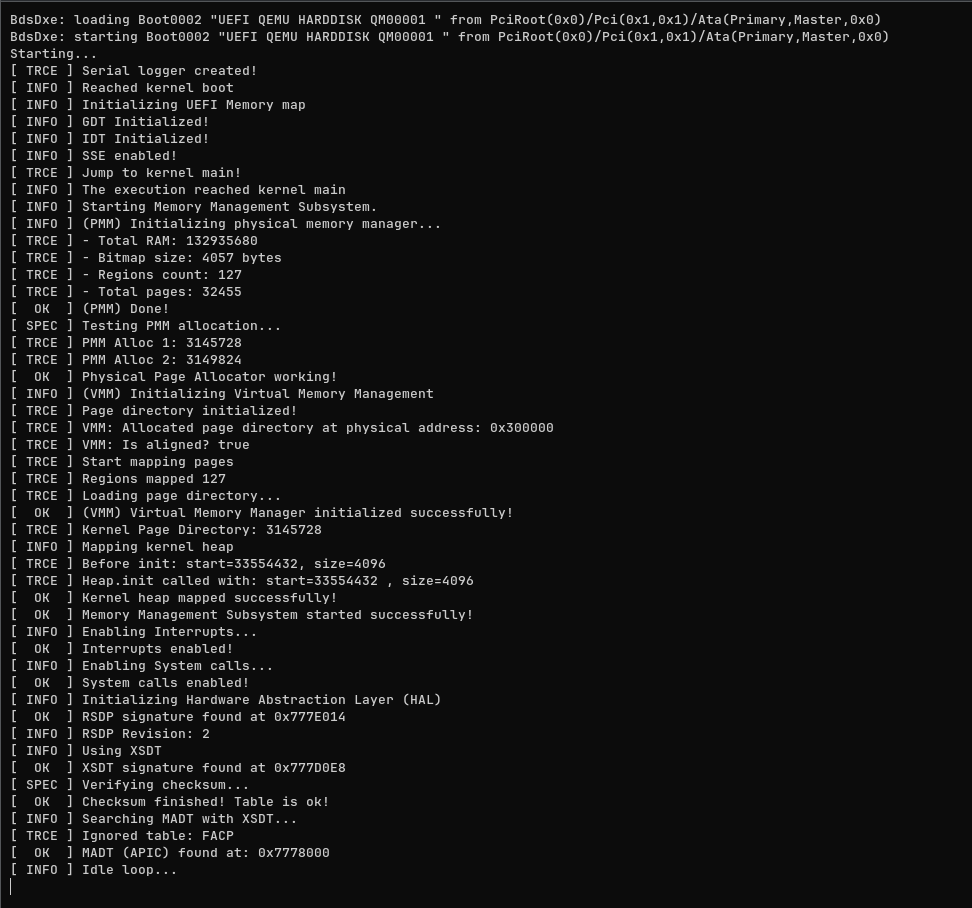
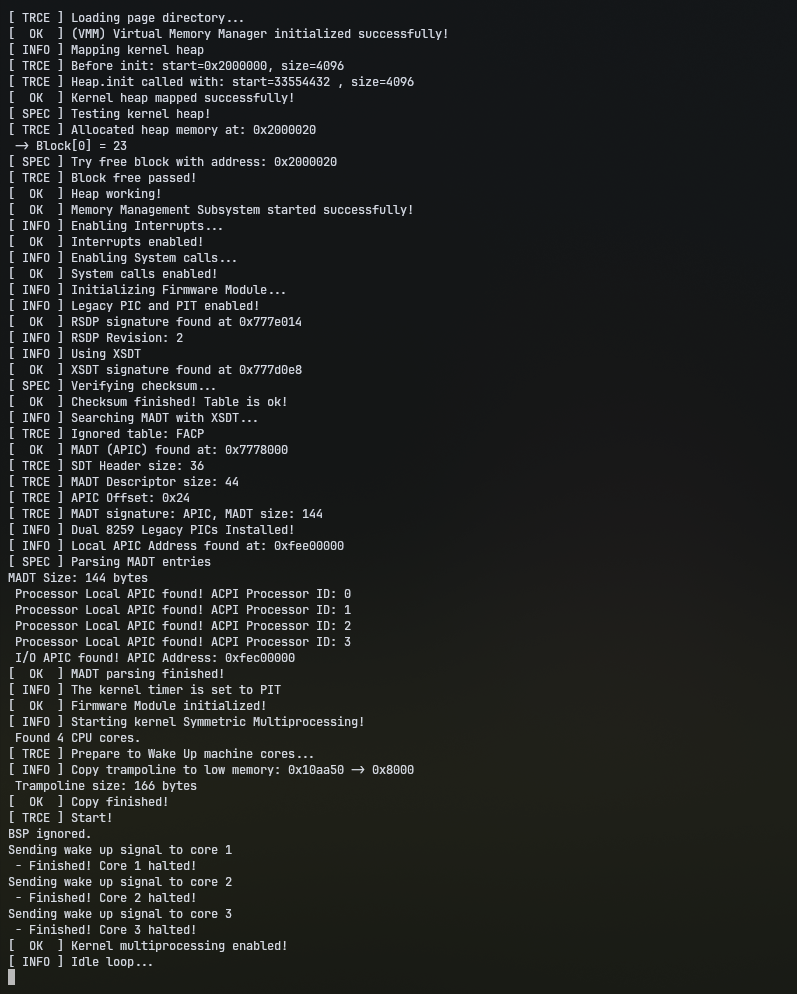
docs: update README.md

Changed region(s): [[0.0, 0.0, 0.9034, 1.0], [0.3915, 0.2467, 0.4216, 0.2775]]

diff --git a/README.md b/README.md
@@ -20,26 +20,21 @@ Initially conceived in C, the project **migrated to Zig** to leverage modern lan
 
 The kernel boots **natively via UEFI**. The `make run` target is the primary way to run it.
 
-I am currently implementing a **Hardware Abstraction Layer (HAL)** to map modern hardware using the **APIC** (Advanced Programmable Interrupt Controller) instead of the legacy PIC. ACPI tables (RSDP → XSDT → MADT) are already being parsed to discover the APIC base address.
-
 ### Implemented
-- [x] **UEFI Bootloader:** Hand-written Zig UEFI app loads `kernel.bin` and passes a `BootInfo` struct (memory map, RSDP address).
+- [x] **UEFI Bootloader:** Hand-written Zig UEFI app loads `kernel.bin` and passes a `BootInfo` struct.
 - [x] **Physical Memory Manager:** 4KB page bitmap allocator with kernel/bitmap memory protection.
 - [x] **Virtual Memory Manager:** Higher-half 4-level paging (offset `0xFFFF800000000000`).
-- [x] **Heap Allocator:** Linked-list `kmalloc`/`kfree` with block magic (`0xc0ffee`).
+- [x] **Heap Allocator:** Implementation of `std.mem.Allocator` with a Linked-List.
 - [x] **GDT:** Kernel code/data, user code/data, TSS.
 - [x] **IDT:** Full 256-entry table generated at compile time from assembly stubs.
 - [x] **PIC (legacy):** IRQ remapping (master 0x20, slave 0xA0).
-- [x] **PIT Timer:** Programmable Interval Timer at 100 Hz.
-- [x] **PS/2 Keyboard Driver:** Interrupt-driven input.
-- [x] **VGA Text Mode Driver:** Colored console output (via 0xB8000 mapped at 0xC00B8000).
+- [x] **PIT Timer:** Programmable Interval Timer at 1000 Hz.
 - [x] **Syscall Infrastructure:** `swapgs`/`sysretq` entry, handlers for `exit`, `yield`, `sleep`.
-- [x] **Scheduler:** Round-robin with circular linked-list of threads (no ready threads at boot).
-- [x] **Process Model:** Parent/child/sibling tree, ref-counted, page directory cloning.
-
+- [x] **Hardware Abstraction Layer (HAL):** ACPI (RSDP/XSDT/MADT) parsing and initial APIC topology discovery.
+- [x] **Symmetric Multiprocessing (SMP):** Send wake-up signals for each core.
 ### In Progress
-- [ ] **Hardware Abstraction Layer (HAL):** ACPI (RSDP/XSDT/MADT) parsing, APIC discovery and initialization.
 - [ ] **APIC:** Replacing the legacy PIC with the local APIC and I/O APIC for interrupt management.
+- [ ] **Multicore Scheduler:** Evolving the task scheduler to handle thread dispatching and context switching across multiple APs (Application Processors) now that SMP is initialized.
 
 ---
 
@@ -79,22 +74,20 @@ make info
 /
 ├── kernel/
 │   ├── arch/x86/        # Architecture-specific code (GDT, IDT, paging, syscall ABI, boot)
-│   │   ├── hal/         # Hardware Abstraction Layer (ACPI → APIC)
-│   │   ├── interrupts/  # PIC, IDT stubs
+│   │   ├── firmware/    # Firmware core (ACPI)
+│   │   ├── interrupts/  # PIC, APIC and IDT stubs
 │   │   ├── mem/         # Paging, memory layout
 │   │   ├── cpu/         # CPU features (GDT, TSS, syscalls)
 │   │   └── sys/         # Syscall entry/context
 │   ├── boot/            # UEFI bootloader (start.zig) + BootInfo shared struct
-│   ├── drivers/         # VGA, keyboard, timer
-│   ├── hal/             # Interface definitions (e.g., InterruptController)
+│   ├── hal/             # Interface definitions (e.g., TimerSource)
 │   ├── mm/              # Memory management (PMM, VMM, heap)
 │   ├── proc/            # Process manager
 │   ├── sch/             # Scheduler + context switch
 │   ├── sys/             # Syscall handlers
-│   ├── utils/           # Logger, VGA, serial, libc stubs
-│   └── lib/             # Generic library code (I/O, logging helpers)
+│   ├── utils/           # Logger│   
+    └── lib/             # Generic library code (I/O, logging helpers)
 ├── build.zig            # Zig build system (cross-compilation, UEFI target)
-├── kernel.ld            # Linker script (UEFI boot path)
-├── linker.ld            # Linker script (legacy Multiboot path)
+├── linker.ld            # Linker script (UEFI boot path)
 └── Makefile             # Build automation
 ```